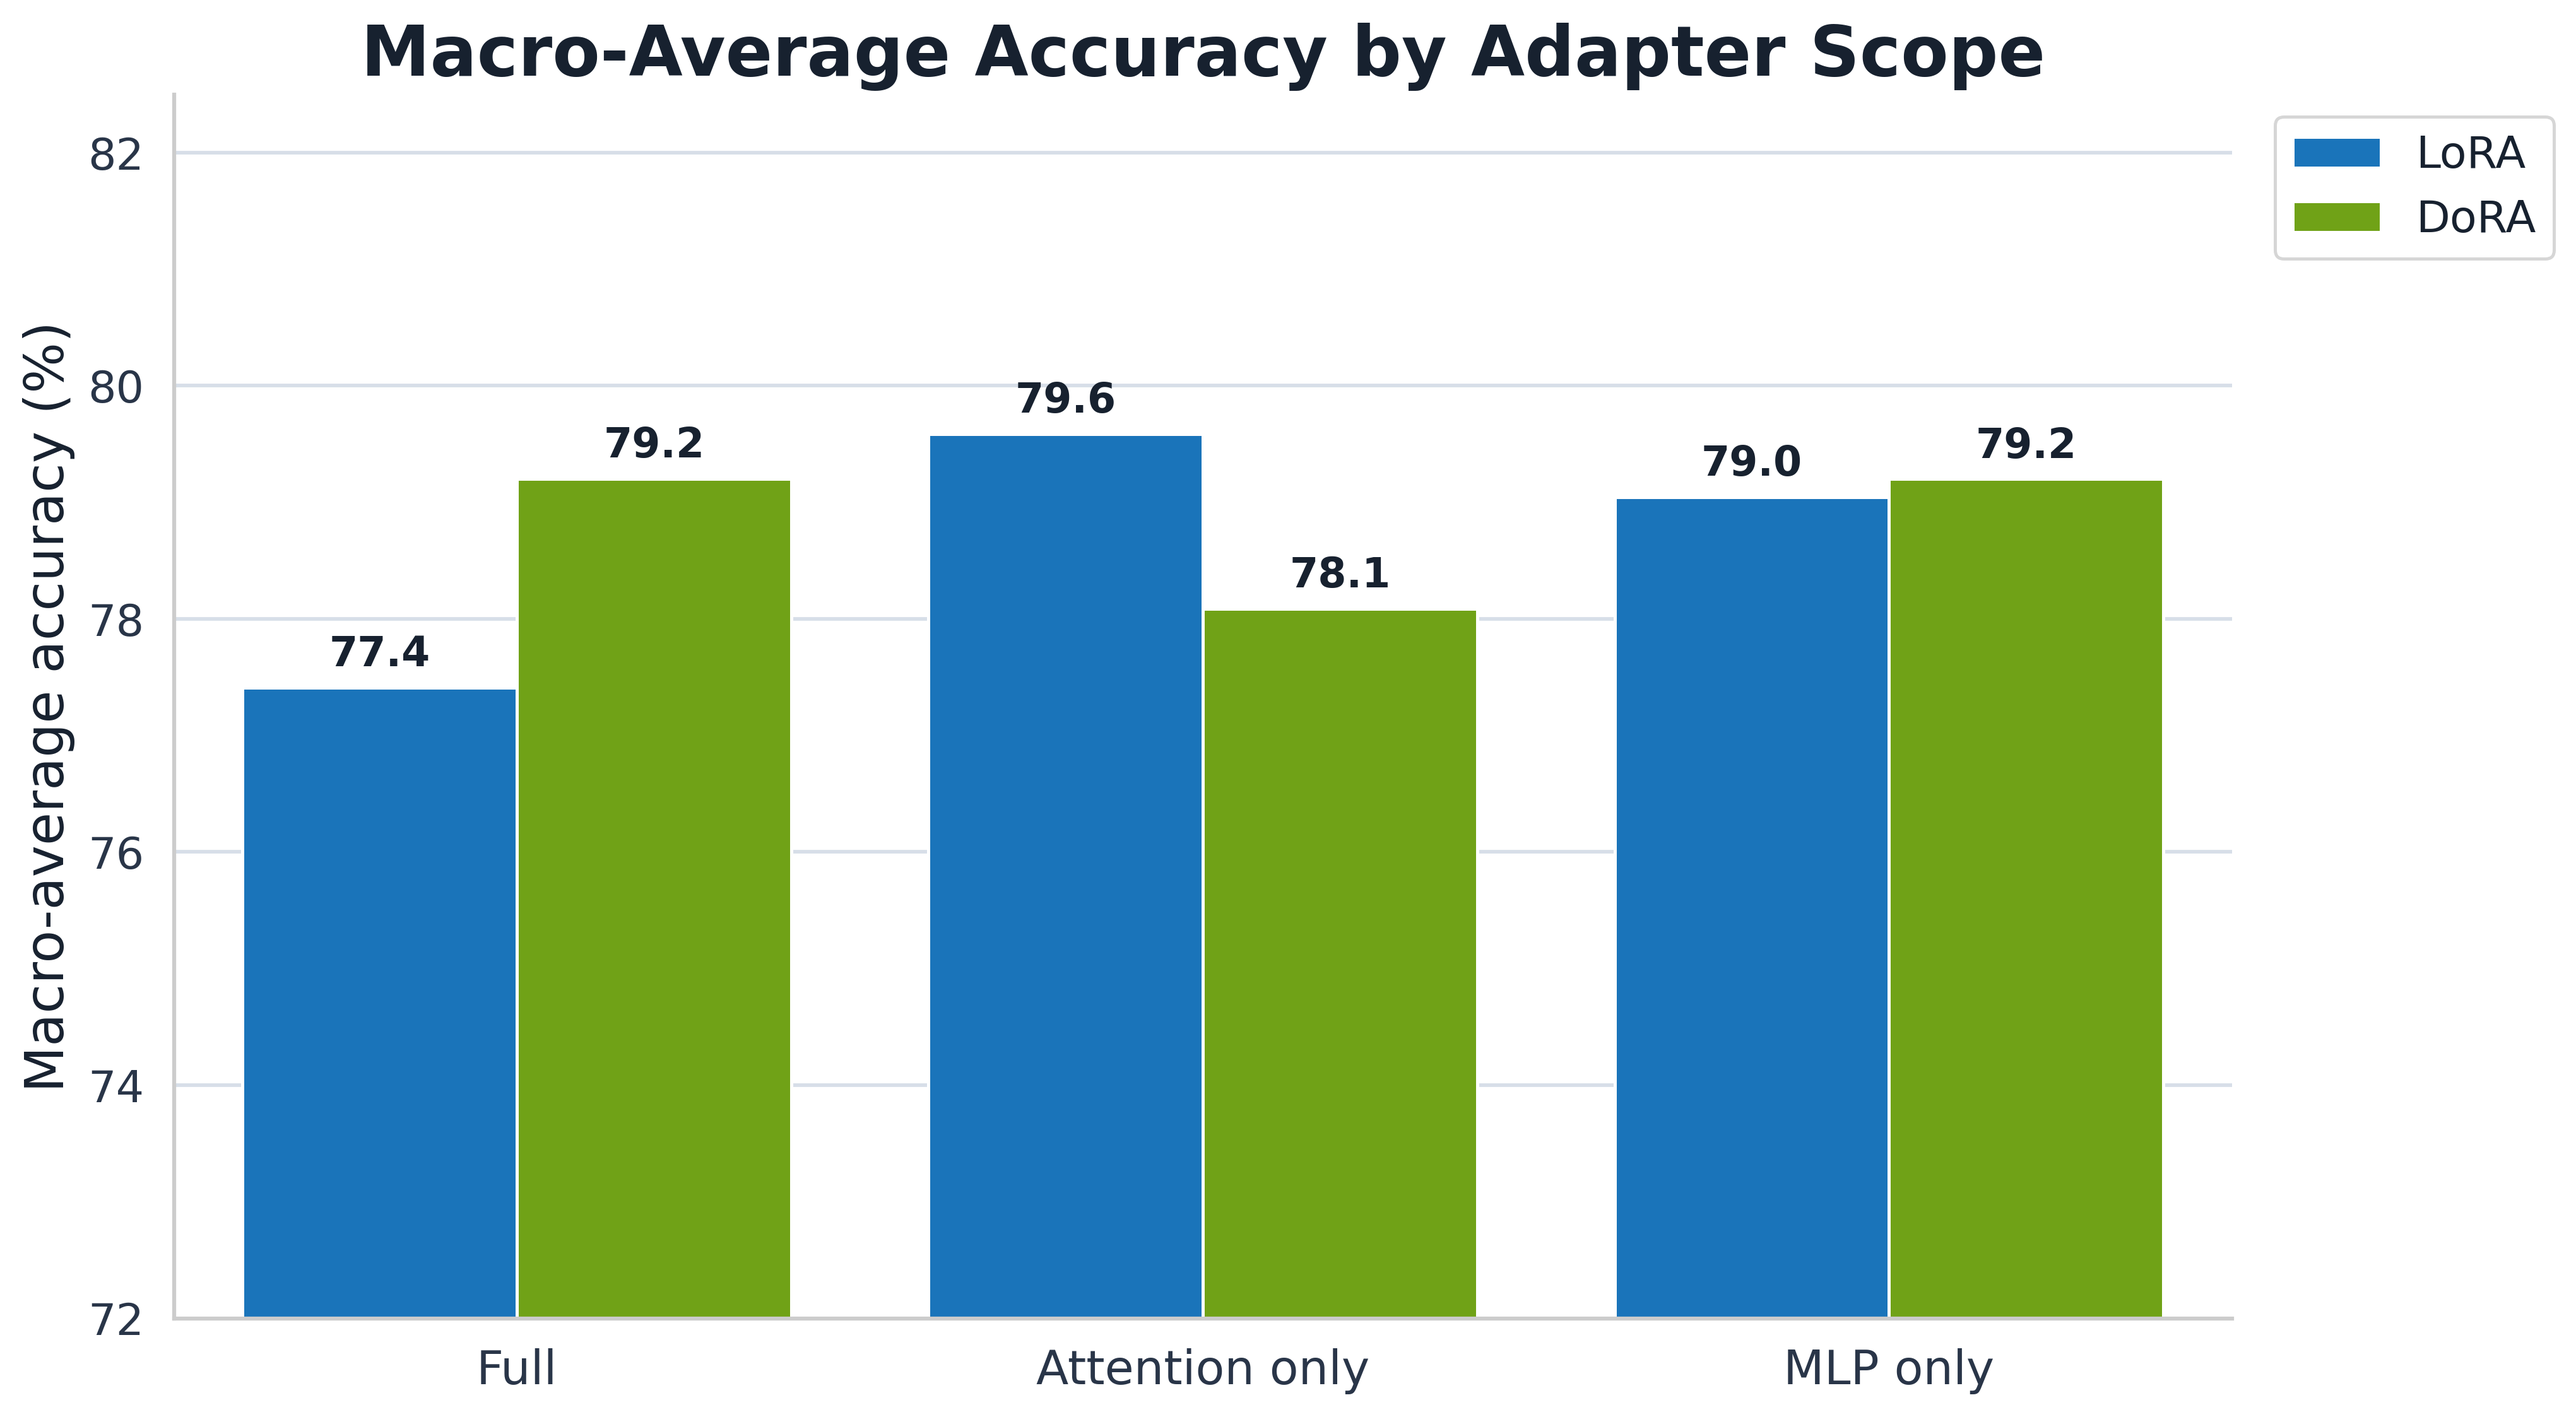
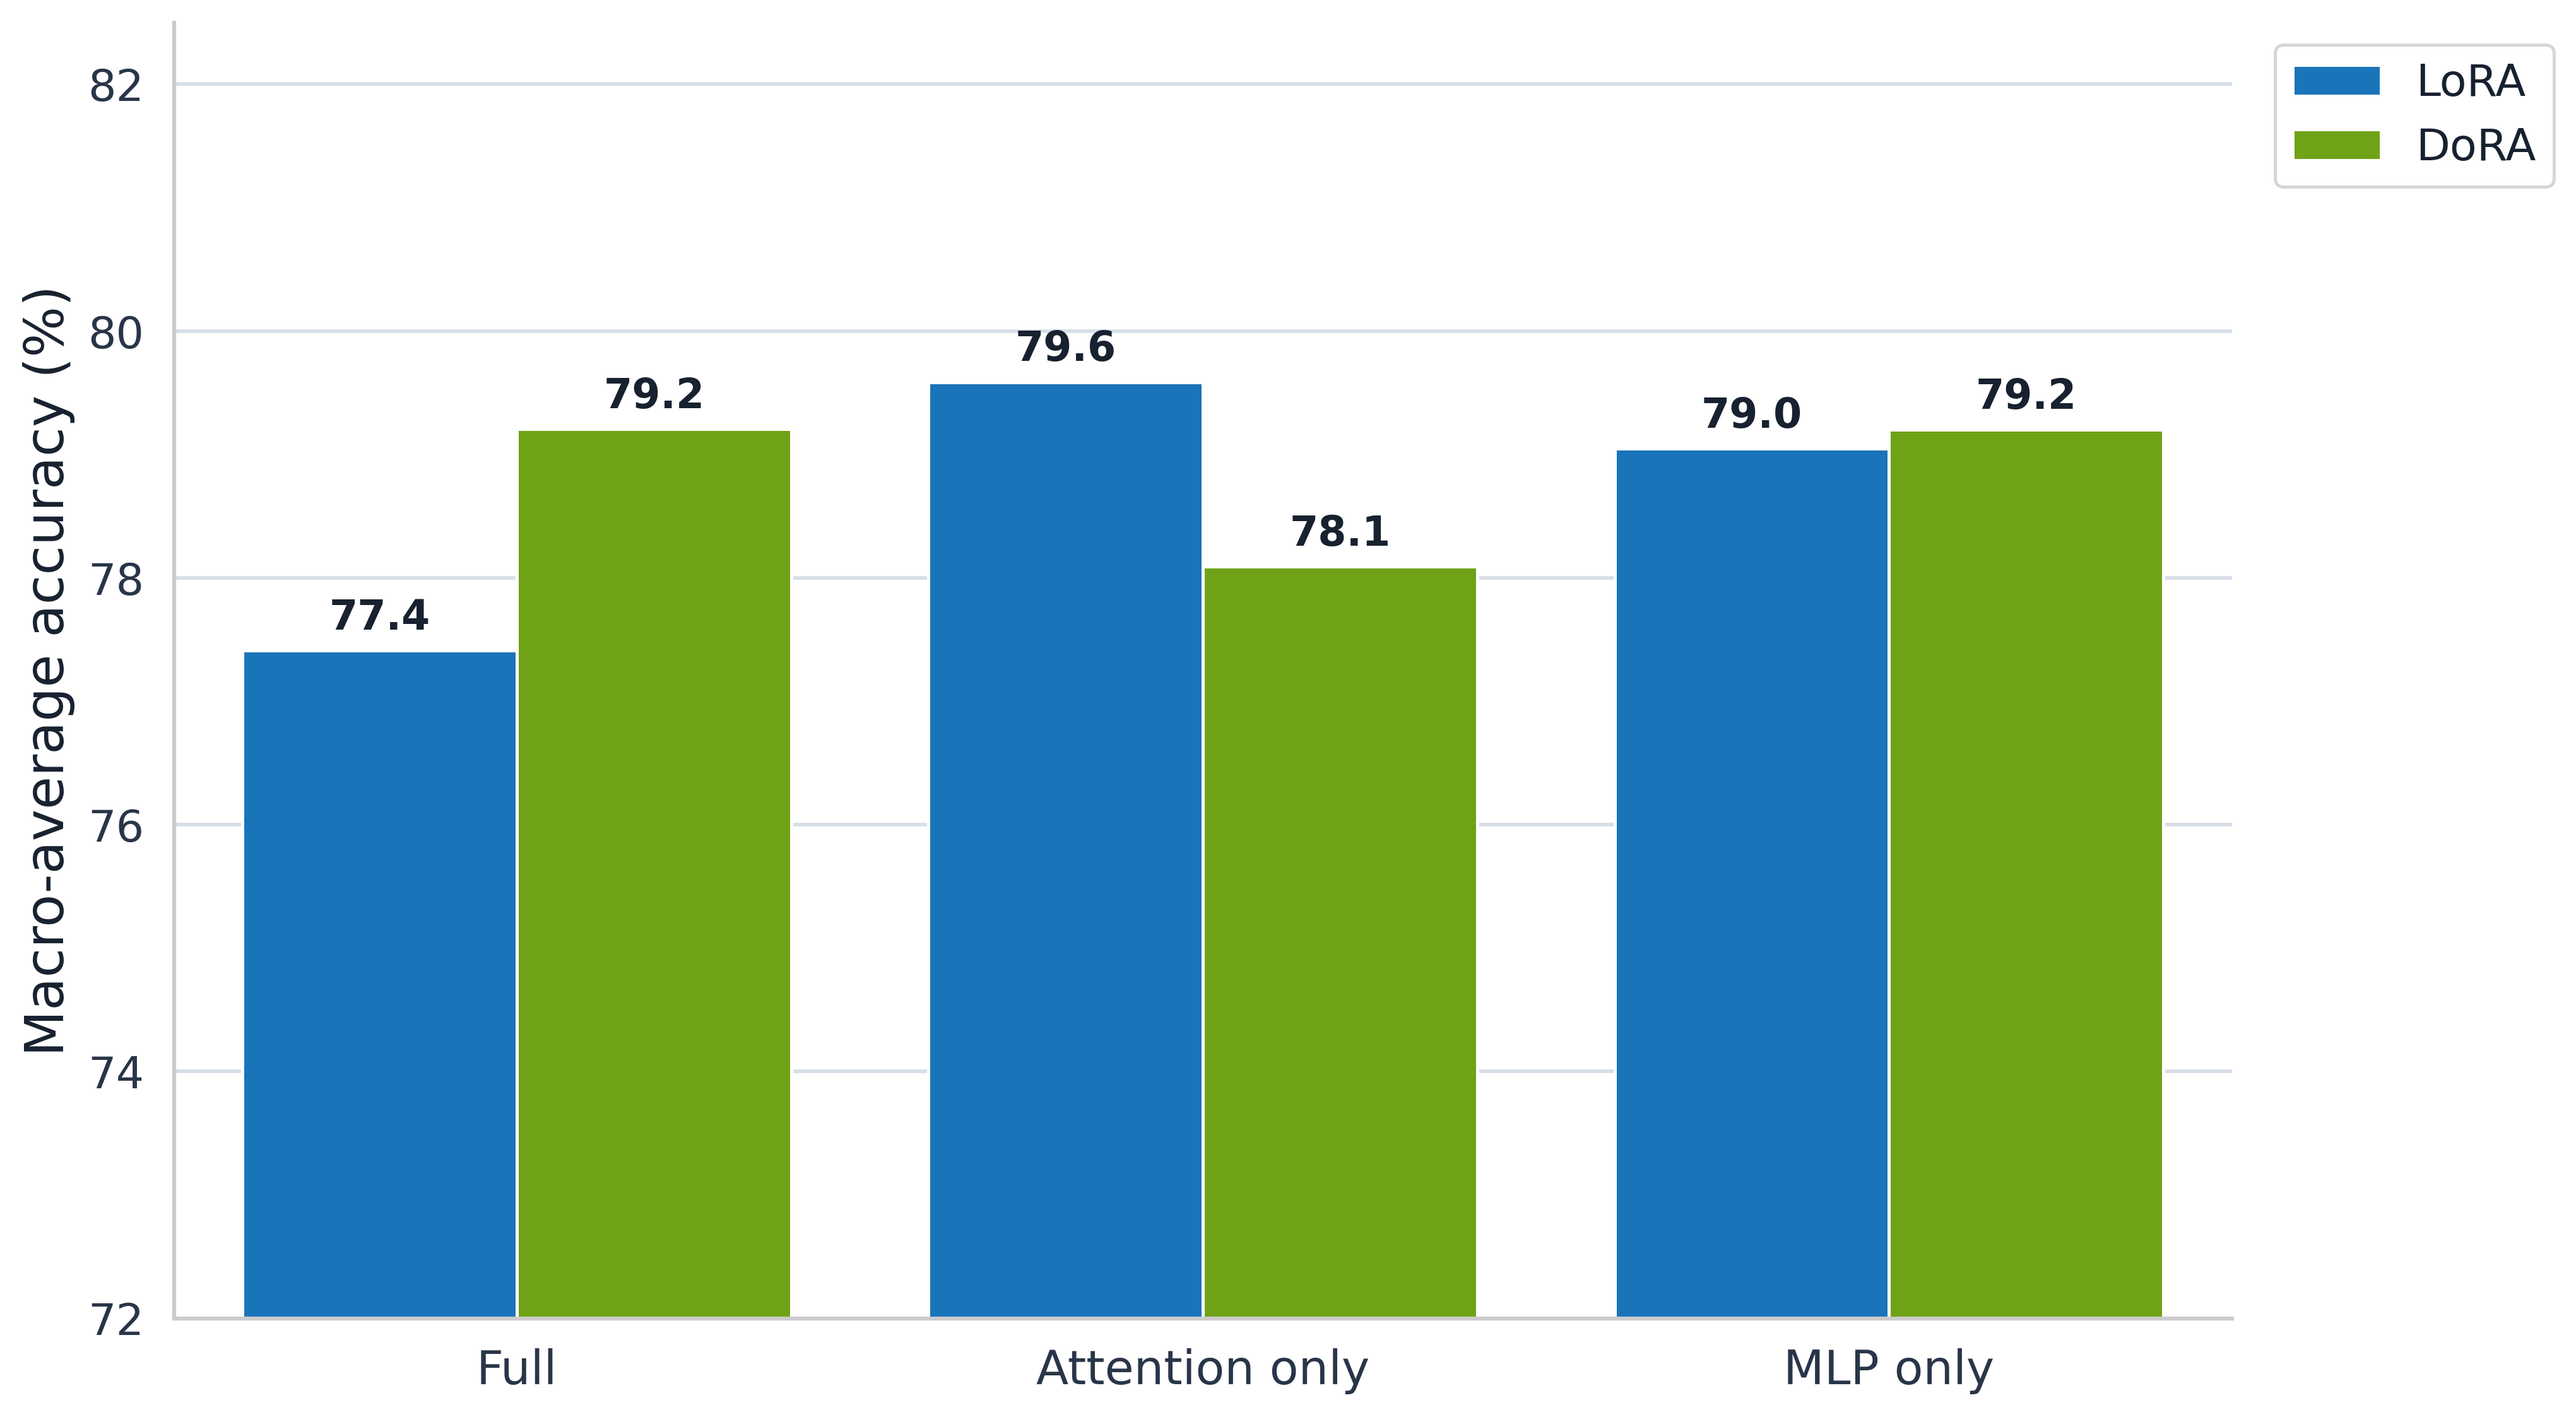
update poster

diff --git a/poster/main.tex b/poster/main.tex
@@ -53,6 +53,13 @@
   \par\noindent{\footnotesize\RaggedRight\textbf{#1.} #2\par}%
 }
 
+\newcommand{\headlineMetric}[2]{%
+  \begin{tabular}[t]{@{}c@{}}
+    {\Huge\bfseries #1}\\[-0.25ex]
+    {\footnotesize #2}
+  \end{tabular}%
+}
+
 \newcommand{\shortcite}[1]{\raisebox{0.65ex}{\scriptsize\cite{#1}}}
 \newcommand{\dora}{\textcolor{NvidiaGreenDark}{\textbf{DoRA}}}
 \newcommand{\lora}{\textcolor{MicrosoftBlue}{\textbf{LoRA}}}
@@ -65,7 +72,14 @@
 \author{Ian Holloway \and Younghyun Jung \and Swathi Selvam \and Shashwat Modi}
 \institute{Cornell University \samelineand CS 5782 / CS 4782 Intro to Deep Learning}
 
-\footercontent{Llama-2-7B commonsense reasoning reproduction \hfill \dora{} = Nvidia green, \lora{} = Microsoft blue \hfill 36 in x 24 in}
+\footercontent{%
+  \small
+  \makebox[\dimexpr\paperwidth-2\sepwidth\relax]{%
+    \makebox[0pt][l]{DoRA Reproduction}%
+    \hfill Cornell CS 5782 / CS 4782\hfill%
+    \makebox[0pt][r]{Llama-2-7B \textbar{} Commonsense Reasoning}%
+  }%
+}
 
 \begin{document}
 
@@ -142,22 +156,23 @@ MLP only & \texttt{up,down} projections & Test feed-forward layers \\
 \begin{column}{\colwidth}
 
 \begin{alertblock}{Headline Result}
-\begin{columns}[T,totalwidth=\linewidth]
-\begin{column}{0.24\linewidth}
-\centering{\Huge\bfseries 77.41\%}\par{\footnotesize Full \lora{} macro}
-\end{column}
-\begin{column}{0.24\linewidth}
-\centering{\Huge\bfseries 79.20\%}\par{\footnotesize Full \dora{} macro}
-\end{column}
-\begin{column}{0.24\linewidth}
-\centering{\Huge\bfseries +1.79}\par{\footnotesize accuracy points}
-\end{column}
-\begin{column}{0.24\linewidth}
-\centering{\Huge\bfseries 6/1/1}\par{\footnotesize wins/ties/losses}
-\end{column}
-\end{columns}
+\begingroup
+\setlength{\tabcolsep}{0pt}
+\renewcommand{\arraystretch}{1.0}
+\begin{tabularx}{\linewidth}{@{}>{\centering\arraybackslash}X>{\centering\arraybackslash}X>{\centering\arraybackslash}X>{\centering\arraybackslash}X@{}}
+\headlineMetric{77.41\%}{Full \lora{} macro} &
+\headlineMetric{79.20\%}{Full \dora{} macro} &
+\headlineMetric{+1.79}{accuracy points} &
+\headlineMetric{6/1/1}{wins/ties/losses}
+\end{tabularx}
+\endgroup
 \vspace{0.8ex}
-\centering{\footnotesize Full-scope \dora{} reproduced the paper's qualitative improvement over \lora{} under our student-scale setup.\par}
+\begin{center}
+\begin{minipage}{0.94\linewidth}
+\centering\footnotesize
+Full-scope \dora{} reproduced the paper's qualitative improvement over \lora{} under our student-scale setup.
+\end{minipage}
+\end{center}
 \end{alertblock}
 
 \begin{block}{Macro Accuracy by Adapter Scope}

diff --git a/analysis/analyze_dora_lora.py b/analysis/analyze_dora_lora.py
@@ -317,7 +317,7 @@ def fig1_macro_grouped(df: pd.DataFrame, out: Path) -> None:
     )
     for container in ax.containers:
         ax.bar_label(container, fmt="%.1f", padding=4, fontsize=13, fontweight="bold")
-    ax.set_title("Macro-Average Accuracy by Adapter Scope")
+    ax.set_title("")
     ax.set_xlabel("")
     ax.set_ylabel("Macro-average accuracy (%)")
     ax.set_ylim(72, 82.5)
